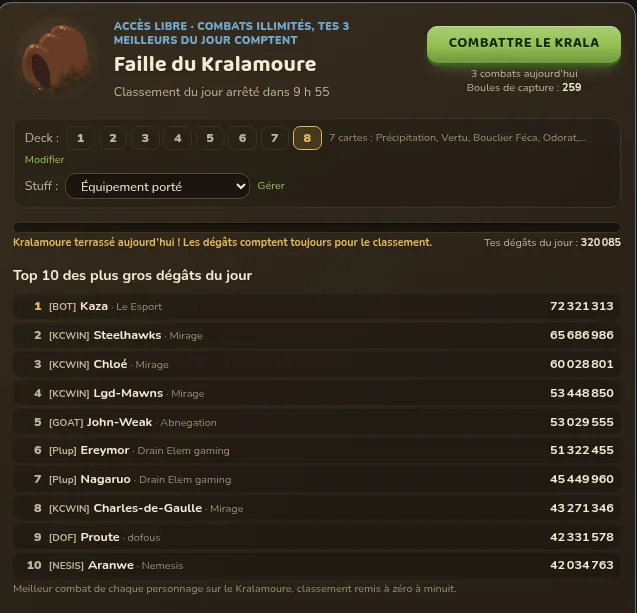
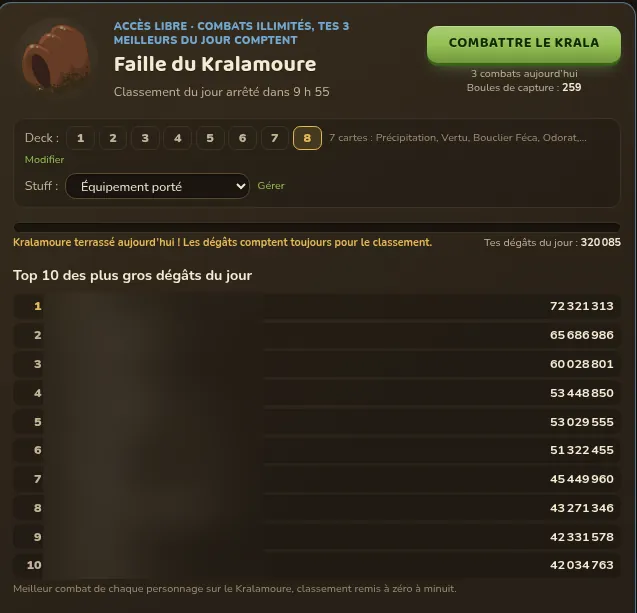
Captures sur toutes les pages : réutilisation (Personnage, Caractéristiques, Équipement, Cartes, Contenus, Kralamoure Géant), captures headless des pages publiques /classes, /saison, /mentions (pseudos floutés), top 10 Faille flouté, SectionLanding avec captureId/captureIds

diff --git a/components/WorldDetails.tsx b/components/WorldDetails.tsx
@@ -2,5 +2,5 @@ import GameCapture from '@/components/GameCapture';
 import { PageHeader, Section, TableWrap } from './ui';
 import { bossEntries, zoneEntries } from '@/lib/nav';
 import { BestiaryCaveats } from './BestiaryCaveats';
-export function BossDetails({boss:b}:{boss:typeof bossEntries[number]}){return <><PageHeader href={`/monde/boss/${b.slug}/`} title={b.name} intro={`Niveau ${b.level} · ${b.location}`}/><BestiaryCaveats/><Section id="mecaniques" title="Mécaniques par difficulté">{b.mechanics.length?b.mechanics.map((m,i)=><article key={i}><h3>{m.tier} — {m.mechanic}</h3><p>{m.text}</p><p className="muted">Sources en jeu : {m.sources}</p></article>):<p>Mécaniques non collectées pour ce boss (ou verrouillées en jeu).</p>}</Section><Section id="butin" title="Butin affiché">{b.drops.length?<TableWrap caption={`Butin de ${b.name}`}><thead><tr><th scope="col">Objet</th><th scope="col">Rareté</th><th scope="col">Taux affiché</th></tr></thead><tbody>{b.drops.map((d,i)=><tr key={i}><td>{d.item}</td><td>{d.rarity}</td><td>{d.drop_pct}</td></tr>)}</tbody></TableWrap>:<p>Aucun relevé de butin dans ce fichier.</p>}</Section></>;}
+export function BossDetails({boss:b}:{boss:typeof bossEntries[number]}){return <><PageHeader href={`/monde/boss/${b.slug}/`} title={b.name} intro={`Niveau ${b.level} · ${b.location}`}/><BestiaryCaveats/>{b.slug === 'kralamoure-geant' ? <GameCapture id="guilde-faille-top10" caption="Faille du Kralamoure et top 10 du jour" /> : null}<Section id="mecaniques" title="Mécaniques par difficulté">{b.mechanics.length?b.mechanics.map((m,i)=><article key={i}><h3>{m.tier} — {m.mechanic}</h3><p>{m.text}</p><p className="muted">Sources en jeu : {m.sources}</p></article>):<p>Mécaniques non collectées pour ce boss (ou verrouillées en jeu).</p>}</Section><Section id="butin" title="Butin affiché">{b.drops.length?<TableWrap caption={`Butin de ${b.name}`}><thead><tr><th scope="col">Objet</th><th scope="col">Rareté</th><th scope="col">Taux affiché</th></tr></thead><tbody>{b.drops.map((d,i)=><tr key={i}><td>{d.item}</td><td>{d.rarity}</td><td>{d.drop_pct}</td></tr>)}</tbody></TableWrap>:<p>Aucun relevé de butin dans ce fichier.</p>}</Section></>;}
 export function ZoneDetails({zone:z}:{zone:typeof zoneEntries[number]}){return <><PageHeader href={`/monde/zones/${z.slug}/`} title={z.name} intro={`Niveaux ${z.level}`}/><BestiaryCaveats/>{z.slug === 'jardins-d-hiver' ? <GameCapture id="jardins-d-hiver" /> : null}<Section id="monstres" title="Monstres et objets bonus de victoire">{z.monsters.map((m,i)=><article key={i}><h3>{m.monster} · niveaux {m.level}</h3><p>Famille : {m.family || 'Non affichée'}</p>{m.pv?<p>PV : {m.pv}</p>:null}<h4>Objets bonus de victoire</h4>{m.drops.length?<ul>{m.drops.map((d,j)=><li key={j}>{d}</li>)}</ul>:<p>Pas de butin propre à ce monstre (seulement l’objet bonus de victoire).</p>}</article>)}</Section></>;}

diff --git a/app/equipement/cartes/page.tsx b/app/equipement/cartes/page.tsx
@@ -1,3 +1,4 @@
+import GameCapture from '@/components/GameCapture';
 import type { Metadata } from 'next';
 import { CardTable } from '@/components/CardTable';
 import { BestiaryCaveats } from '@/components/BestiaryCaveats';
@@ -7,6 +8,7 @@ export default function Page() {
   return <>
     <PageHeader href="/equipement/cartes/" section="economie" title="Catalogue des cartes" intro="Compare les 241 cartes possédées relevées dans la collection : coût en PA, éléments, effets et rareté." />
     <Essentiel><li>Filtre par coût en PA, élément, rareté ou tag Classe / Incarné.</li><li>La recherche porte aussi sur les effets et les notes.</li><li>Les éléments et les raretés sont toujours indiqués en texte.</li></Essentiel>
+    <GameCapture id="deck-7-kralamoure" caption="Exemple de deck : le deck 7 du Féca pour le Kralamoure" />
     <Warn title="Collection partielle"><p>11 cartes non découvertes sont absentes. La collection affichait 235/246 cartes découvertes et 241 possédées : ces compteurs ne décrivent pas la même chose. Ce catalogue reprend les 241 cartes possédées du fichier, pas toutes les cartes du jeu.</p><p>Les éléments sont ceux nommés dans les effets. Une rareté ou un élément non renseigné reste inconnu. Les tags Classe / Incarné ne donnent pas le nom précis d’une classe ; les cartes sans tag sont regroupées sous « Général / sans tag ».</p></Warn>
     
     <Section id="catalogue" title="Catalogue des cartes"><CardTable /></Section>

diff --git a/components/SectionLanding.tsx b/components/SectionLanding.tsx
@@ -3,6 +3,7 @@ import { NAV, trailFor, type NavNode } from '@/lib/nav';
 import { illustrationFor } from '@/lib/illustrations';
 import Illustration from './Illustration';
 import { PageHeader } from './ui';
+import GameCapture, { CaptureGallery } from './GameCapture';
 
 export function SectionCards({ nodes = NAV }: { nodes?: NavNode[] }) {
   return <ul className="hub">{nodes.map(n => <li key={n.href}>
@@ -14,8 +15,13 @@ export function SectionCards({ nodes = NAV }: { nodes?: NavNode[] }) {
   </li>)}</ul>;
 }
 
-export default function SectionLanding({ href }: { href: string }) {
+export default function SectionLanding({ href, captureId, captureIds, captureCaption }: { href: string; captureId?: string; captureIds?: string[]; captureCaption?: string }) {
   const trail = trailFor(href);
   const n = trail[trail.length - 1];
-  return <><PageHeader href={href} title={n.title} intro={n.description} /><SectionCards nodes={n.children} /></>;
+  return <>
+    <PageHeader href={href} title={n.title} intro={n.description} />
+    {captureId ? <GameCapture id={captureId} caption={captureCaption} /> : null}
+    {captureIds?.length ? <CaptureGallery ids={captureIds} /> : null}
+    <SectionCards nodes={n.children} />
+  </>;
 }

diff --git a/app/a-propos/sources/page.tsx b/app/a-propos/sources/page.tsx
@@ -1,3 +1,4 @@
+import GameCapture from '@/components/GameCapture';
 import type { Metadata } from 'next';
 import { Essentiel, M, More, PageEnd, PageHeader, Section, STATUS_INFO, TableWrap, Warn, type Status } from '@/components/ui';
 import { GAME_URL } from '@/lib/site';
@@ -49,6 +50,8 @@ export default function SourcesPage() {
         </li>
       </Essentiel>
 
+      <GameCapture id="site-mentions" caption="Page publique Mentions et règles" />
+
       <Section id="statut" title="Un wiki non officiel">
         <Warn>
           <p>
@@ -65,7 +68,7 @@ export default function SourcesPage() {
           </li>
           <li>
             Les classes, objets, noms, illustrations… de l’univers DOFUS appartiennent à Ankama Games. Ce wiki ne reproduit{' '}
-            <strong>aucune image ni ressource</strong> du jeu. <M s="T" />
+            <strong>aucune ressource</strong> du jeu, hormis des captures d’écran datées pour illustrer. <M s="T" />
           </li>
         </ul>
       </Section>

diff --git a/app/contenus/saison/page.tsx b/app/contenus/saison/page.tsx
@@ -1,3 +1,4 @@
+import GameCapture from '@/components/GameCapture';
 import Link from 'next/link';
 import type { Metadata } from 'next';
 import { SectionIcon } from '@/components/icons';
@@ -40,6 +41,8 @@ export default function SaisonPage() {
           Récompenses et <strong>contenu de la Banque</strong> versés sur le perso principal à la fin. <M s="T" />
         </li>
       </Essentiel>
+
+      <GameCapture id="site-saison" caption="Page publique Saison au 20 oct 2026 (saison des Cartes)" />
 
       <Warn title={`${DATA_DATE_LABEL} — fin ${SEASON_END}`}>
         <p>
@@ -169,6 +172,7 @@ export default function SaisonPage() {
             On ne peut rien en conclure de fiable sur la force des classes. <M s="D" />
           </p>
         </More>
+        <GameCapture id="site-saison-classement" caption="Haut du classement de la saison, pseudos floutés" />
       </Section>
 
       <Section id="recompenses" title="Récompenses">

diff --git a/app/personnage/classes/page.tsx b/app/personnage/classes/page.tsx
@@ -1,3 +1,4 @@
+import GameCapture from '@/components/GameCapture';
 import Link from 'next/link';
 import type { Metadata } from 'next';
 import ClassGrid from '@/components/ClassGrid';
@@ -28,6 +29,8 @@ export default function ClassesPage() {
           Le jeu ne désigne <strong>aucune « meilleure » classe</strong> : chacune a son style. <M s="T" />
         </li>
       </Essentiel>
+
+      <GameCapture id="site-classes" caption="Page publique Classes du site" />
 
       <Link href="/personnage/classes/cra/" className="feature">
         <span className="medal" aria-hidden="true">

diff --git a/app/personnage/caracteristiques/page.tsx b/app/personnage/caracteristiques/page.tsx
@@ -1,3 +1,4 @@
+import GameCapture from '@/components/GameCapture';
 import Link from 'next/link';
 import type { Metadata } from 'next';
 import { SectionIcon } from '@/components/icons';
@@ -43,6 +44,8 @@ export default function CaracteristiquesPage() {
           <M s="T" />
         </li>
       </Essentiel>
+
+      <GameCapture id="feca-caracteristiques" caption="Caractéristiques d’un Féca niveau 200" />
 
       <Fiche
         title="Fiche caractéristiques"

diff --git a/content/cra.tsx b/content/cra.tsx
@@ -1,3 +1,4 @@
+import GameCapture from '@/components/GameCapture';
 import CraAdvice from '@/components/CraAdvice';
 import Link from 'next/link';
 import type { Metadata } from 'next';
@@ -66,6 +67,8 @@ export default function CraPage() {
           </span>
         </li>
       </Essentiel>
+
+      <GameCapture id="site-classes-grille" caption="Le Crâ dans la grille des classes (page publique)" />
 
       <Fiche
         title="Fiche Crâ"

diff --git a/app/equipement/page.tsx b/app/equipement/page.tsx
@@ -1,4 +1,4 @@
 import { trailFor } from '@/lib/nav';
 import SectionLanding from '@/components/SectionLanding';
 export const metadata={title:trailFor('/equipement/').at(-1)!.title};
-export default function Page(){return <SectionLanding href="/equipement/"/>;}
+export default function Page(){return <SectionLanding href="/equipement/" captureId="momore-equipement-porte" captureCaption="Équipement porté (panoplie Momore 6/6)"/>;}

diff --git a/app/contenus/page.tsx b/app/contenus/page.tsx
@@ -1,4 +1,4 @@
 import { trailFor } from '@/lib/nav';
 import SectionLanding from '@/components/SectionLanding';
 export const metadata={title:trailFor('/contenus/').at(-1)!.title};
-export default function Page(){return <SectionLanding href="/contenus/"/>;}
+export default function Page(){return <SectionLanding href="/contenus/" captureId="guilde-faille-top10" captureCaption="Faille du Kralamoure dans la page Guilde"/>;}

diff --git a/app/personnage/page.tsx b/app/personnage/page.tsx
@@ -1,4 +1,4 @@
 import { trailFor } from '@/lib/nav';
 import SectionLanding from '@/components/SectionLanding';
 export const metadata={title:trailFor('/personnage/').at(-1)!.title};
-export default function Page(){return <SectionLanding href="/personnage/"/>;}
+export default function Page(){return <SectionLanding href="/personnage/" captureId="feca-fiche" captureCaption="Fiche du Féca de SNking"/>;}
